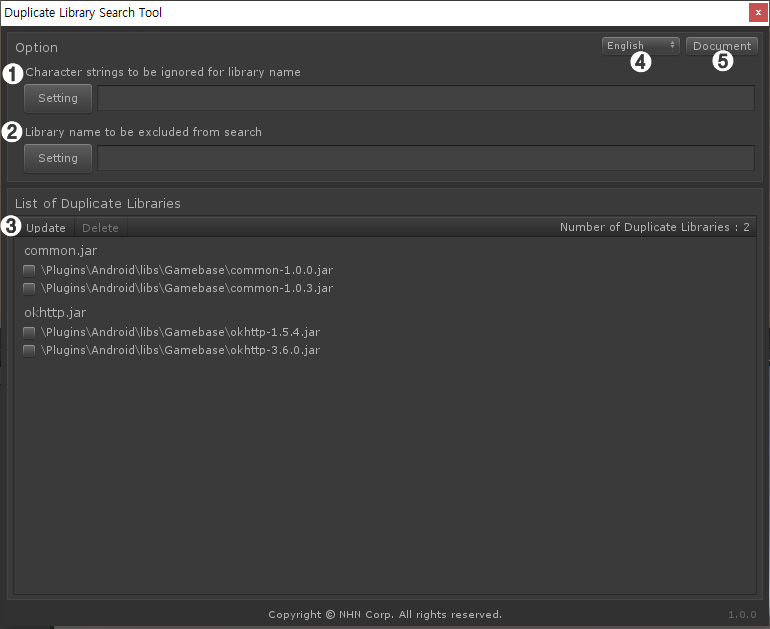
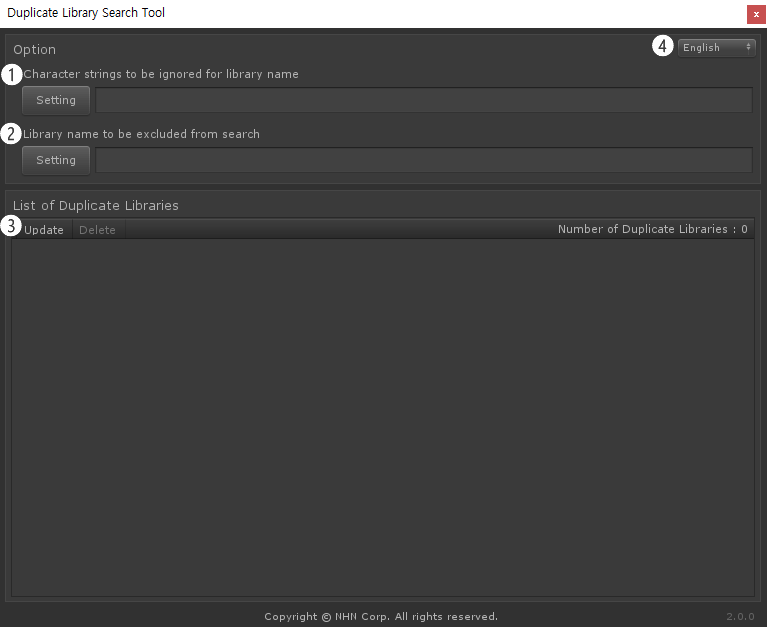
Modify document button deletion in DLST

diff --git a/docs/DLST/README.md b/docs/DLST/README.md
@@ -148,7 +148,6 @@ Menu > Tools > GPM > Duplicate Library Search Tool(DLST)
     * '새로 고침' : 검색 결과를 갱신합니다.
     * '삭제' : 라이브러리 목록에서 선택한 라이브러리를 삭제합니다.
 4. 툴의 언어를 변경합니다. 지원 언어는 한국어, 영어입니다.
-5. DLST 문서로 연결됩니다.
 
 #### '라이브러리 이름에서 무시할 문자열' 설정 창
 

diff --git a/docs/DLST/README.en.md b/docs/DLST/README.en.md
@@ -148,7 +148,6 @@ Menu > Tools > GPM > Duplicate Library Search Tool(DLST)
     * 'Refresh' : Update search results.
     * 'Delete' : Choose a library from search result and remove it. 
 4. Change language for the tool: Korean and English are supported.
-5. Open the DLST document.
 
 #### Configuration window for **character strings to ignore for a library name**.
 
